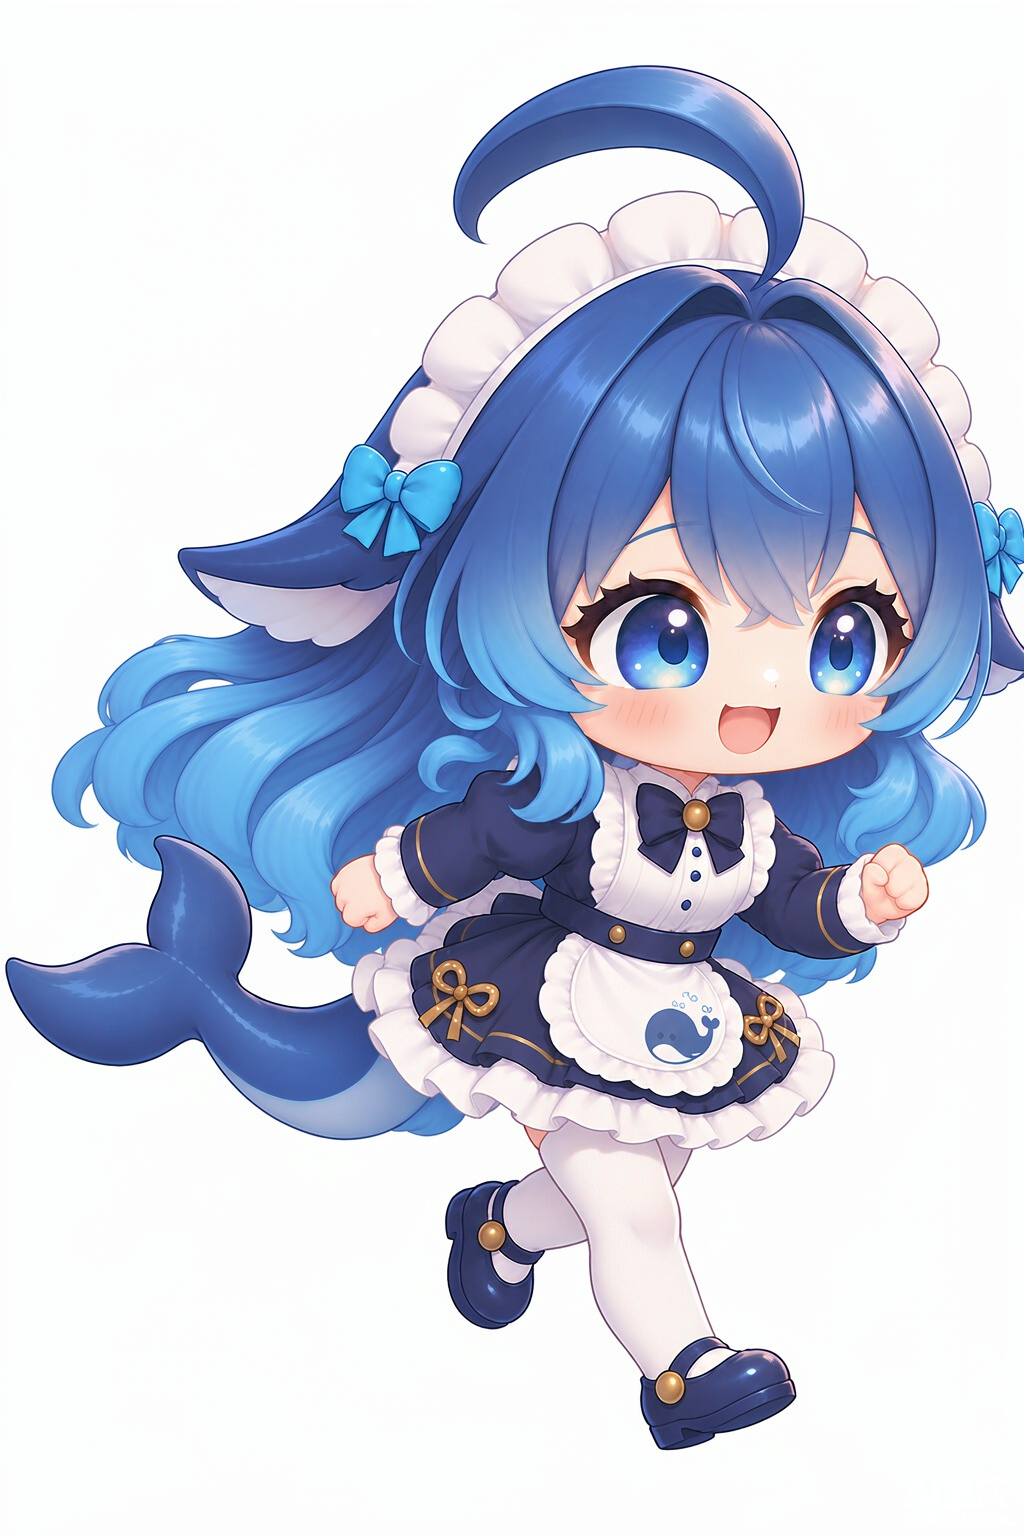
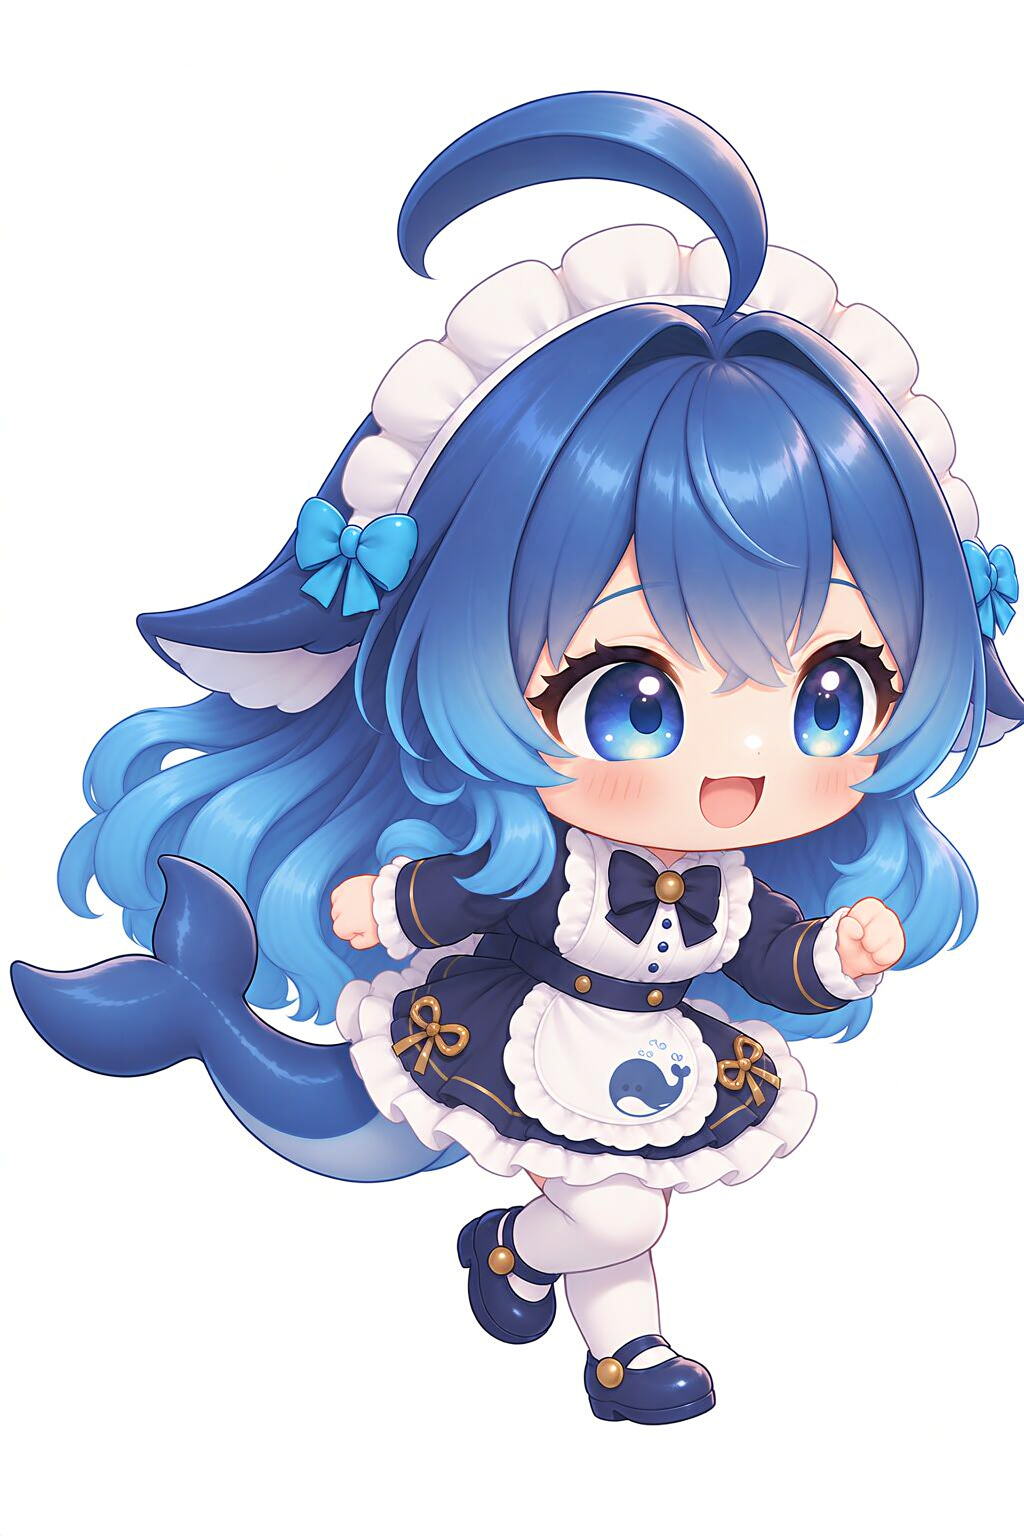
feat(pet): run 宽步幅版 + 新增「两脚跨度」判据（触地帧 ≥45% 角色高）
上一版两腿始终挤在一起（触地帧跨度仅 33%），画面上读不出「跨步」，
看着像原地倒腿。重新生成 12 帧把跨度提到 52~53%。

同时新增验收判据：量角色底部 12% 高度带里轮廓的左右范围 ÷ 角色高，
只看接地帧（跨步是触地那一刻决定的）。旧版 38% 会报警，新版 53% 通过。
—— 注：用户随后给出了新规格（要求小步快跑 + 角色稳定），
本条判据的阈值方向会随新规格再调整。

diff --git a/verify-assets.py b/verify-assets.py
@@ -67,6 +67,10 @@ LEG_BOT = 365
 # 真正决定像不像跑的是**摆幅**（腿真的在前后动）和**身高起落**（有压低）。
 STRIDE_MIN_POSES = 4
 STRIDE_MIN_COLS = 60    # 任意两帧腿部轮廓至少要差这么多列
+# 两脚跨度（角色底部 12% 高度带里轮廓的左右范围 ÷ 角色高）。
+# 用户反馈"感觉只迈了一只脚"的直接原因：上一版触地帧两脚只差 33% 角色高，
+# 两腿挤在一起 → 画面上读不出"跨步"。实测改宽后 52%。
+STRIDE_SPREAD_MIN = 45
 
 # 「整只被横向压窄」判据（2026-09-23 补）
 # 量的是【角色上 40% 段的宽 / 角色高】—— 头部是刚体，这个比例只该随视角变、
@@ -373,6 +377,30 @@ def main():
                         f"{clip}: 两次腾空间隔不等（{gap1} / {gap2} 帧）"
                         f" → 步时 {gap1/float(m['fps']):.2f}s vs {gap2/float(m['fps']):.2f}s，"
                         f"细看会「跛」")
+
+            # 两脚跨度 —— 直接量"腿到底跨开没有"。
+            # 用户反馈"感觉只迈了一只脚"，根因之一就是两条腿始终挤在一起：
+            # 上一版触地帧两脚只差 33% 角色高，跨不开就读不出跑步。
+            # 量法：角色底部 12% 高度带里轮廓的左右范围 ÷ 角色高。
+            spreads = []
+            for mm2 in metrics:
+                if not mm2 or mm2["air"]:
+                    continue          # 只看接地帧：跨步是在触地那一刻决定的
+                i2 = mm2["idx"] - 1
+                fa = frames[i2][0] > ALPHA_TH
+                band = fa[max(0, mm2["feet"] - int(mm2["h"]*0.12)):mm2["feet"] + 1]
+                bxs = np.where(band.any(axis=0))[0]
+                if len(bxs):
+                    spreads.append((bxs.max()-bxs.min()) / float(mm2["h"]) * 100)
+            if spreads:
+                mx = max(spreads)
+                report.append(f"           两脚跨度 最大 {mx:.0f}% 角色高"
+                              f"（期望 ≥{STRIDE_SPREAD_MIN:.0f}%；"
+                              f"太小 = 两腿挤在一起，读不出跑步）")
+                if mx < STRIDE_SPREAD_MIN:
+                    warns.append(
+                        f"{clip}: 两条腿始终挤在一起（两脚跨度最大只有 {mx:.0f}% 角色高）"
+                        f" → 画面上读不出「跨步」，看着像原地倒腿")
 
             # 身高要有起落 —— 跑步的"压低/伸展"就体现在这里。
             # ⚠ 之前这条写的是"接地帧脚底起落"，**判据写错了**：
